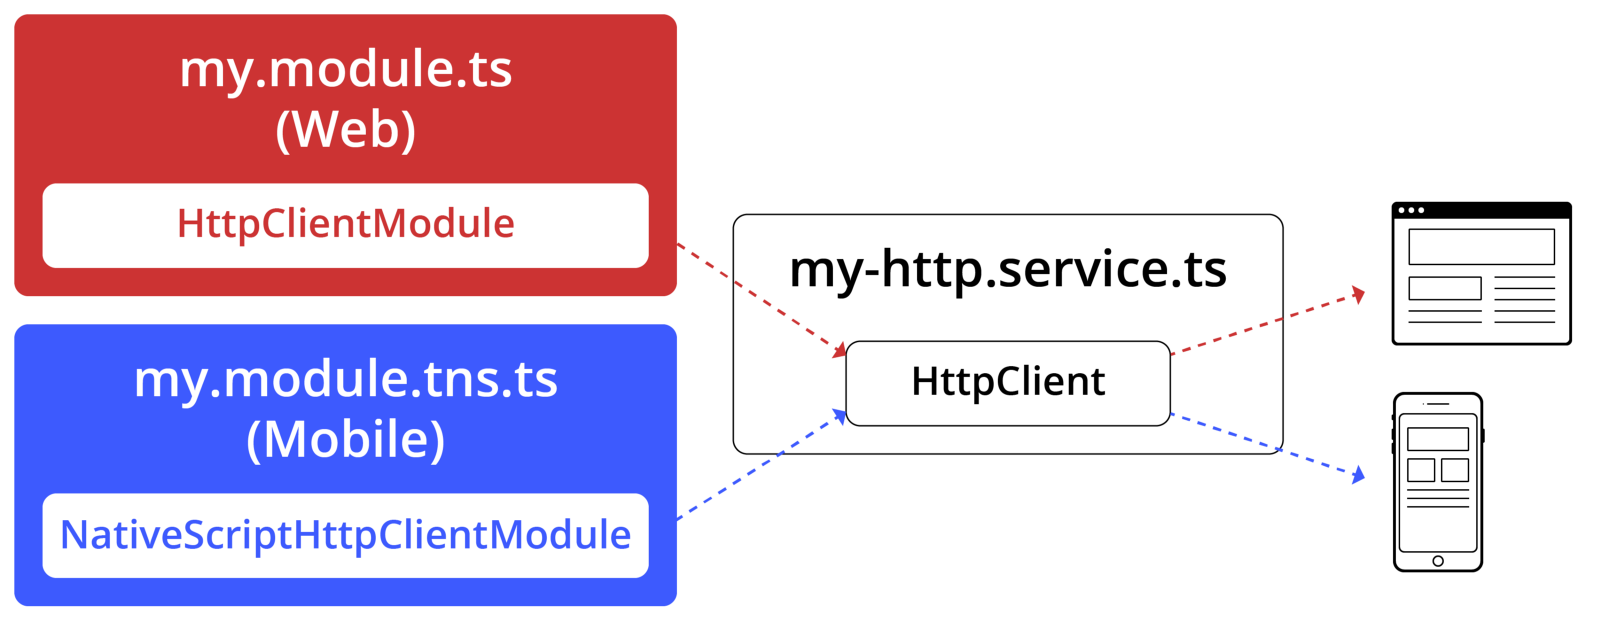
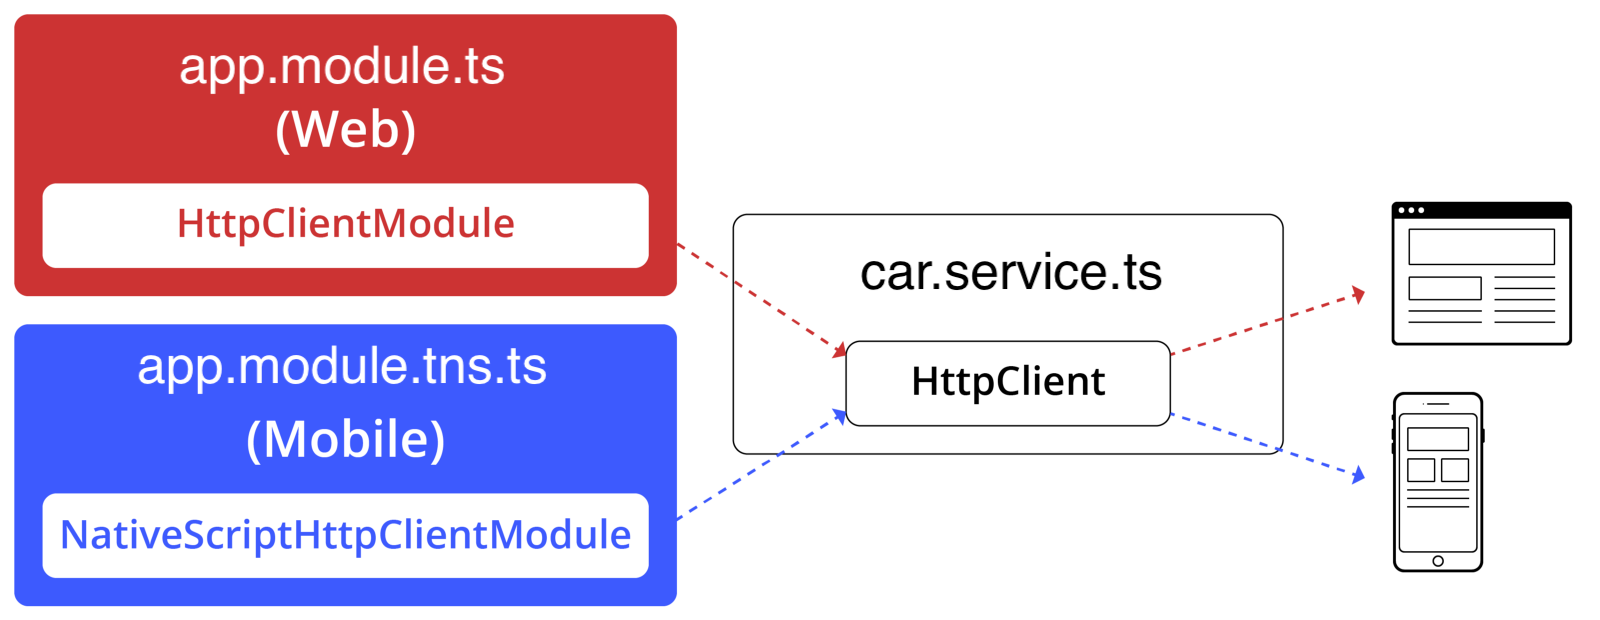
refactor: update http client image

Changed region(s): [[0.0625, 0.5516, 0.3438, 0.6742], [0.4688, 0.3984, 0.7812, 0.4903], [0.0938, 0.0613, 0.3438, 0.1532]]

diff --git a/readme.md b/readme.md
@@ -252,8 +252,6 @@ This is enough to make the **CartService** to work for both Web and Mobile, with
 
 Here is a high-level visualisation of how the right implementation of the **HttpClient** is provided to the service at build time.
 
-> TODO: Get a version of the image that says app.module.ts/app.module.tns.ts => cart.service.ts => apps
-
 <img src="./img/2-http-client.png?raw=true">
 
 
